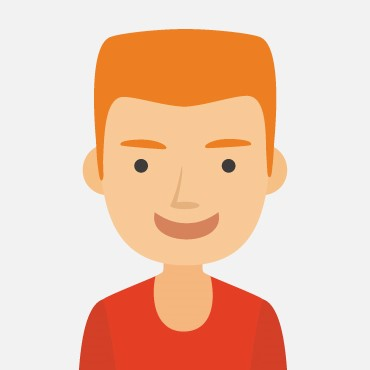
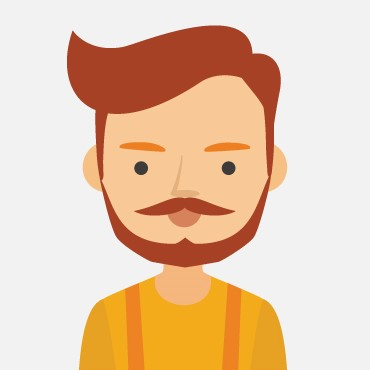
Preparing Vue

diff --git a/js/script.js b/js/script.js
@@ -1,0 +1,96 @@
+var app = new Vue(
+    {
+        el: '#root',
+        data: {
+            contacts: [
+                {
+                    name: 'Michele',
+                    avatar: '_1',
+                    visible: true,
+                    messages: [
+                        {
+                            date: '10/01/2020 15:30:55',
+                            text: 'Hai portato a spasso il cane?',
+                            status: 'sent'
+                        },
+                        {
+                            date: '10/01/2020 15:50:00',
+                            text: 'Ricordati di dargli da mangiare',
+                            status: 'sent'
+                        },
+                        {
+                            date: '10/01/2020 16:15:22',
+                            text: 'Tutto fatto!',
+                            status: 'received'
+                        }
+                    ],
+                },
+                {
+                    name: 'Fabio',
+                    avatar: '_2',
+                    visible: true,
+                    messages: [
+                        {
+                            date: '20/03/2020 16:30:00',
+                            text: 'Ciao come stai?',
+                            status: 'sent'
+                        },
+                        {
+                            date: '20/03/2020 16:30:55',
+                            text: 'Bene grazie! Stasera ci vediamo?',
+                            status: 'received'
+                        },
+                        {
+                            date: '20/03/2020 16:35:00',
+                            text: 'Mi piacerebbe ma devo andare a fare la spesa.',
+                            status: 'sent'
+                        }
+                    ],
+                },
+                {
+                    name: 'Samuele',
+                    avatar: '_3',
+                    visible: true,
+                    messages: [
+                        {
+                            date: '28/03/2020 10:10:40',
+                            text: 'La Marianna va in campagna',
+                            status: 'received'
+                        },
+                        {
+                            date: '28/03/2020 10:20:10',
+                            text: 'Sicuro di non aver sbagliato chat?',
+                            status: 'sent'
+                        },
+                        {
+                            date: '28/03/2020 16:15:22',
+                            text: 'Ah scusa!',
+                            status: 'received'
+                        }
+                    ],
+                },
+                {
+                    name: 'Luisa',
+                    avatar: '_4',
+                    visible: true,
+                    messages: [
+                        {
+                            date: '10/01/2020 15:30:55',
+                            text: 'Lo sai che ha aperto una nuova pizzeria?',
+                            status: 'sent'
+                        },
+                        {
+                            date: '10/01/2020 15:50:00',
+                            text: 'Si, ma preferirei andare al cinema',
+                            status: 'received'
+                        }
+                    ],
+                },
+            ]
+        },
+        methods: {
+
+        }
+
+    }
+);

diff --git a/index.html b/index.html
@@ -30,7 +30,7 @@
                         <!-- User Text and Avatar Container -->
                         <div class="text-avatar-container">
                             <div class="user-avatar">
-                                <img src="img/avatar_1.jpg" alt="avatar 1">
+                                <img src="img/avatar_io.jpg" alt="avatar 1">
                             </div>
                             <div class="user-names-text">Nome Utente</div>
                         </div>                                                
@@ -198,7 +198,7 @@
                                 </div>                            
                                 <span class="message-date">YY/DD/HHHH 10:10:40</span>
                             </div>
-                            
+
                         </div>
                     </div>
                     <!-- End Of Messages Content -->
